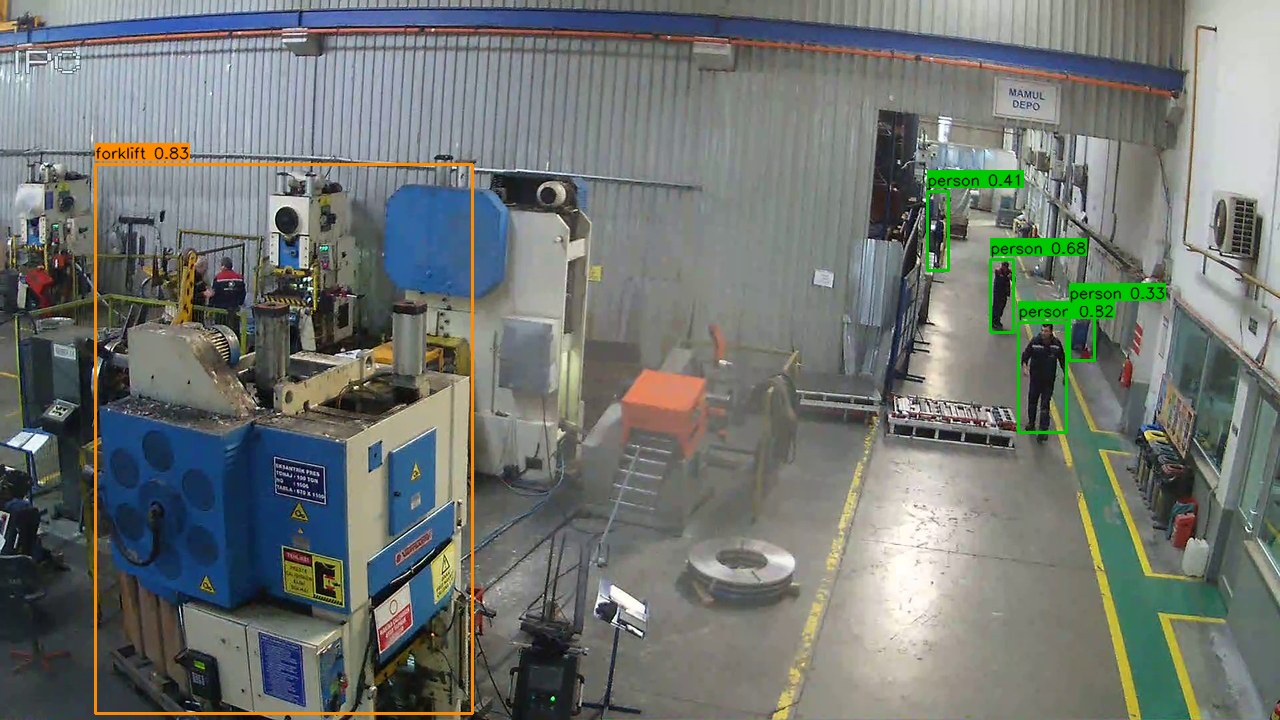
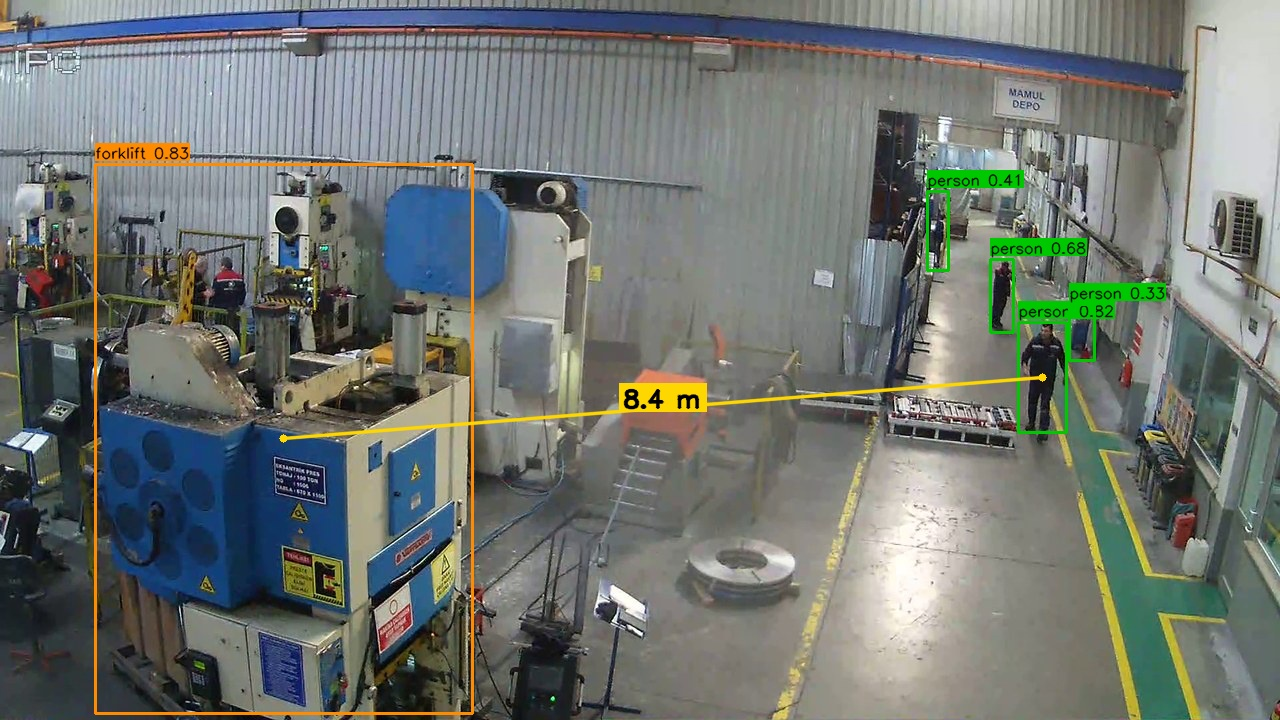
[B] annotate: draw person<->forklift distance line + metre label
The crown-jewel proximity fact, made visible on the big screen: _annotate() now
draws a line between the nearest person and forklift with an "X.X m" label (red
when <3 m). Shared _nearest_person_forklift() keeps the overlay and the
min_person_forklift_dist_m fact exactly consistent. Still facts-only; no risk here.
Money shot cam8_t1: forklift 0.92 + worker @ 2.1 m drawn in red.

Changed region(s): [[0.2188, 0.5194, 0.8125, 0.6111]]

diff --git a/perception.py b/perception.py
@@ -177,6 +177,25 @@ def _box_gap_px(b1, b2):
     return math.hypot(dx, dy)
 
 
+def _nearest_person_forklift(detections):
+    """Return (dist_m, person_det, forklift_det) for the closest pair, scaling
+    pixels to metres via a standing person's height. (None, None, None) if no pair.
+    Shared by compute_derived and the annotation overlay so they agree exactly."""
+    persons = [d for d in detections if d["label"] == "person"]
+    forklifts = [d for d in detections if d["label"] == "forklift"]
+    best, bp, bf = None, None, None
+    for p in persons:
+        ph = p["bbox"][3]
+        if ph <= 0:
+            continue
+        mpp = PERSON_HEIGHT_M / ph
+        for f in forklifts:
+            dist_m = _box_gap_px(p["bbox"], f["bbox"]) * mpp
+            if best is None or dist_m < best:
+                best, bp, bf = dist_m, p, f
+    return (round(best, 1) if best is not None else None), bp, bf
+
+
 # --- derived facts (counts / distance / PPE / hazards) ---------------------
 
 def compute_derived(detections, capabilities):
@@ -198,17 +217,8 @@ def compute_derived(detections, capabilities):
     # closest person<->forklift distance, in metres (rough ground-plane scale:
     # a standing person ~PERSON_HEIGHT_M tall sets metres-per-pixel locally).
     if "person" in capabilities and "forklift" in capabilities:
-        best = None
-        for p in persons:
-            ph = p["bbox"][3]
-            if ph <= 0:
-                continue
-            mpp = PERSON_HEIGHT_M / ph
-            for f in forklifts:
-                dist_m = _box_gap_px(p["bbox"], f["bbox"]) * mpp
-                best = dist_m if best is None else min(best, dist_m)
-        derived["min_person_forklift_dist_m"] = (round(best, 1)
-                                                 if best is not None else None)
+        dist_m, _, _ = _nearest_person_forklift(detections)
+        derived["min_person_forklift_dist_m"] = dist_m
 
     # PPE missing: a no_hardhat / no_vest box overlapping a person.
     if {"no_hardhat", "no_vest"} & capabilities:
@@ -241,8 +251,16 @@ _COLORS = {  # BGR
 }
 
 
-def _annotate(image_path, detections, out_path):
-    """Draw labelled boxes for the dashboard. Returns the output path, or None."""
+def _center(box):
+    x, y, w, h = box
+    return int(x + w / 2), int(y + h / 2)
+
+
+def _annotate(image_path, detections, out_path, pair=None):
+    """Draw labelled boxes for the dashboard, plus (if `pair` given) a person<->
+    forklift distance line + "X.X m" label — the crown-jewel proximity fact made
+    visible on the big screen. `pair` = (dist_m, person_det, forklift_det).
+    Returns the output path, or None."""
     import cv2
     img = cv2.imread(str(image_path))
     if img is None:
@@ -257,6 +275,23 @@ def _annotate(image_path, detections, out_path):
         cv2.rectangle(img, (x, ty - th - 3), (x + tw, ty + 2), color, -1)
         cv2.putText(img, tag, (x, ty), cv2.FONT_HERSHEY_SIMPLEX, 0.5,
                     (0, 0, 0), 1, cv2.LINE_AA)
+
+    # distance overlay: line between the nearest person & forklift + metre label
+    if pair and pair[0] is not None and pair[1] and pair[2]:
+        dist_m, p, f = pair
+        pc, fc = _center(p["bbox"]), _center(f["bbox"])
+        line_col = (0, 0, 255) if dist_m < 3.0 else (0, 215, 255)  # red if <3 m
+        cv2.line(img, pc, fc, line_col, 2, cv2.LINE_AA)
+        cv2.circle(img, pc, 4, line_col, -1)
+        cv2.circle(img, fc, 4, line_col, -1)
+        mid = ((pc[0] + fc[0]) // 2, (pc[1] + fc[1]) // 2)
+        label = f"{dist_m} m"
+        (tw, th), _ = cv2.getTextSize(label, cv2.FONT_HERSHEY_SIMPLEX, 0.8, 2)
+        bx, by = mid[0] - tw // 2, mid[1]
+        cv2.rectangle(img, (bx - 4, by - th - 6), (bx + tw + 4, by + 4), line_col, -1)
+        cv2.putText(img, label, (bx, by), cv2.FONT_HERSHEY_SIMPLEX, 0.8,
+                    (0, 0, 0), 2, cv2.LINE_AA)
+
     Path(out_path).parent.mkdir(parents=True, exist_ok=True)
     cv2.imwrite(str(out_path), img)
     return out_path
@@ -294,8 +329,10 @@ def detect_frame(image_path) -> dict:
 
     derived = compute_derived(detections, caps)
 
+    pair = _nearest_person_forklift(detections)   # (dist_m, person, forklift)
     annotated_rel = f"{ANNOTATED_DIR.name}/{frame_name}"
-    annotated = _annotate(image_path, detections, ANNOTATED_DIR / frame_name)
+    annotated = _annotate(image_path, detections, ANNOTATED_DIR / frame_name,
+                          pair=pair)
 
     return {
         "frame": frame_name,
